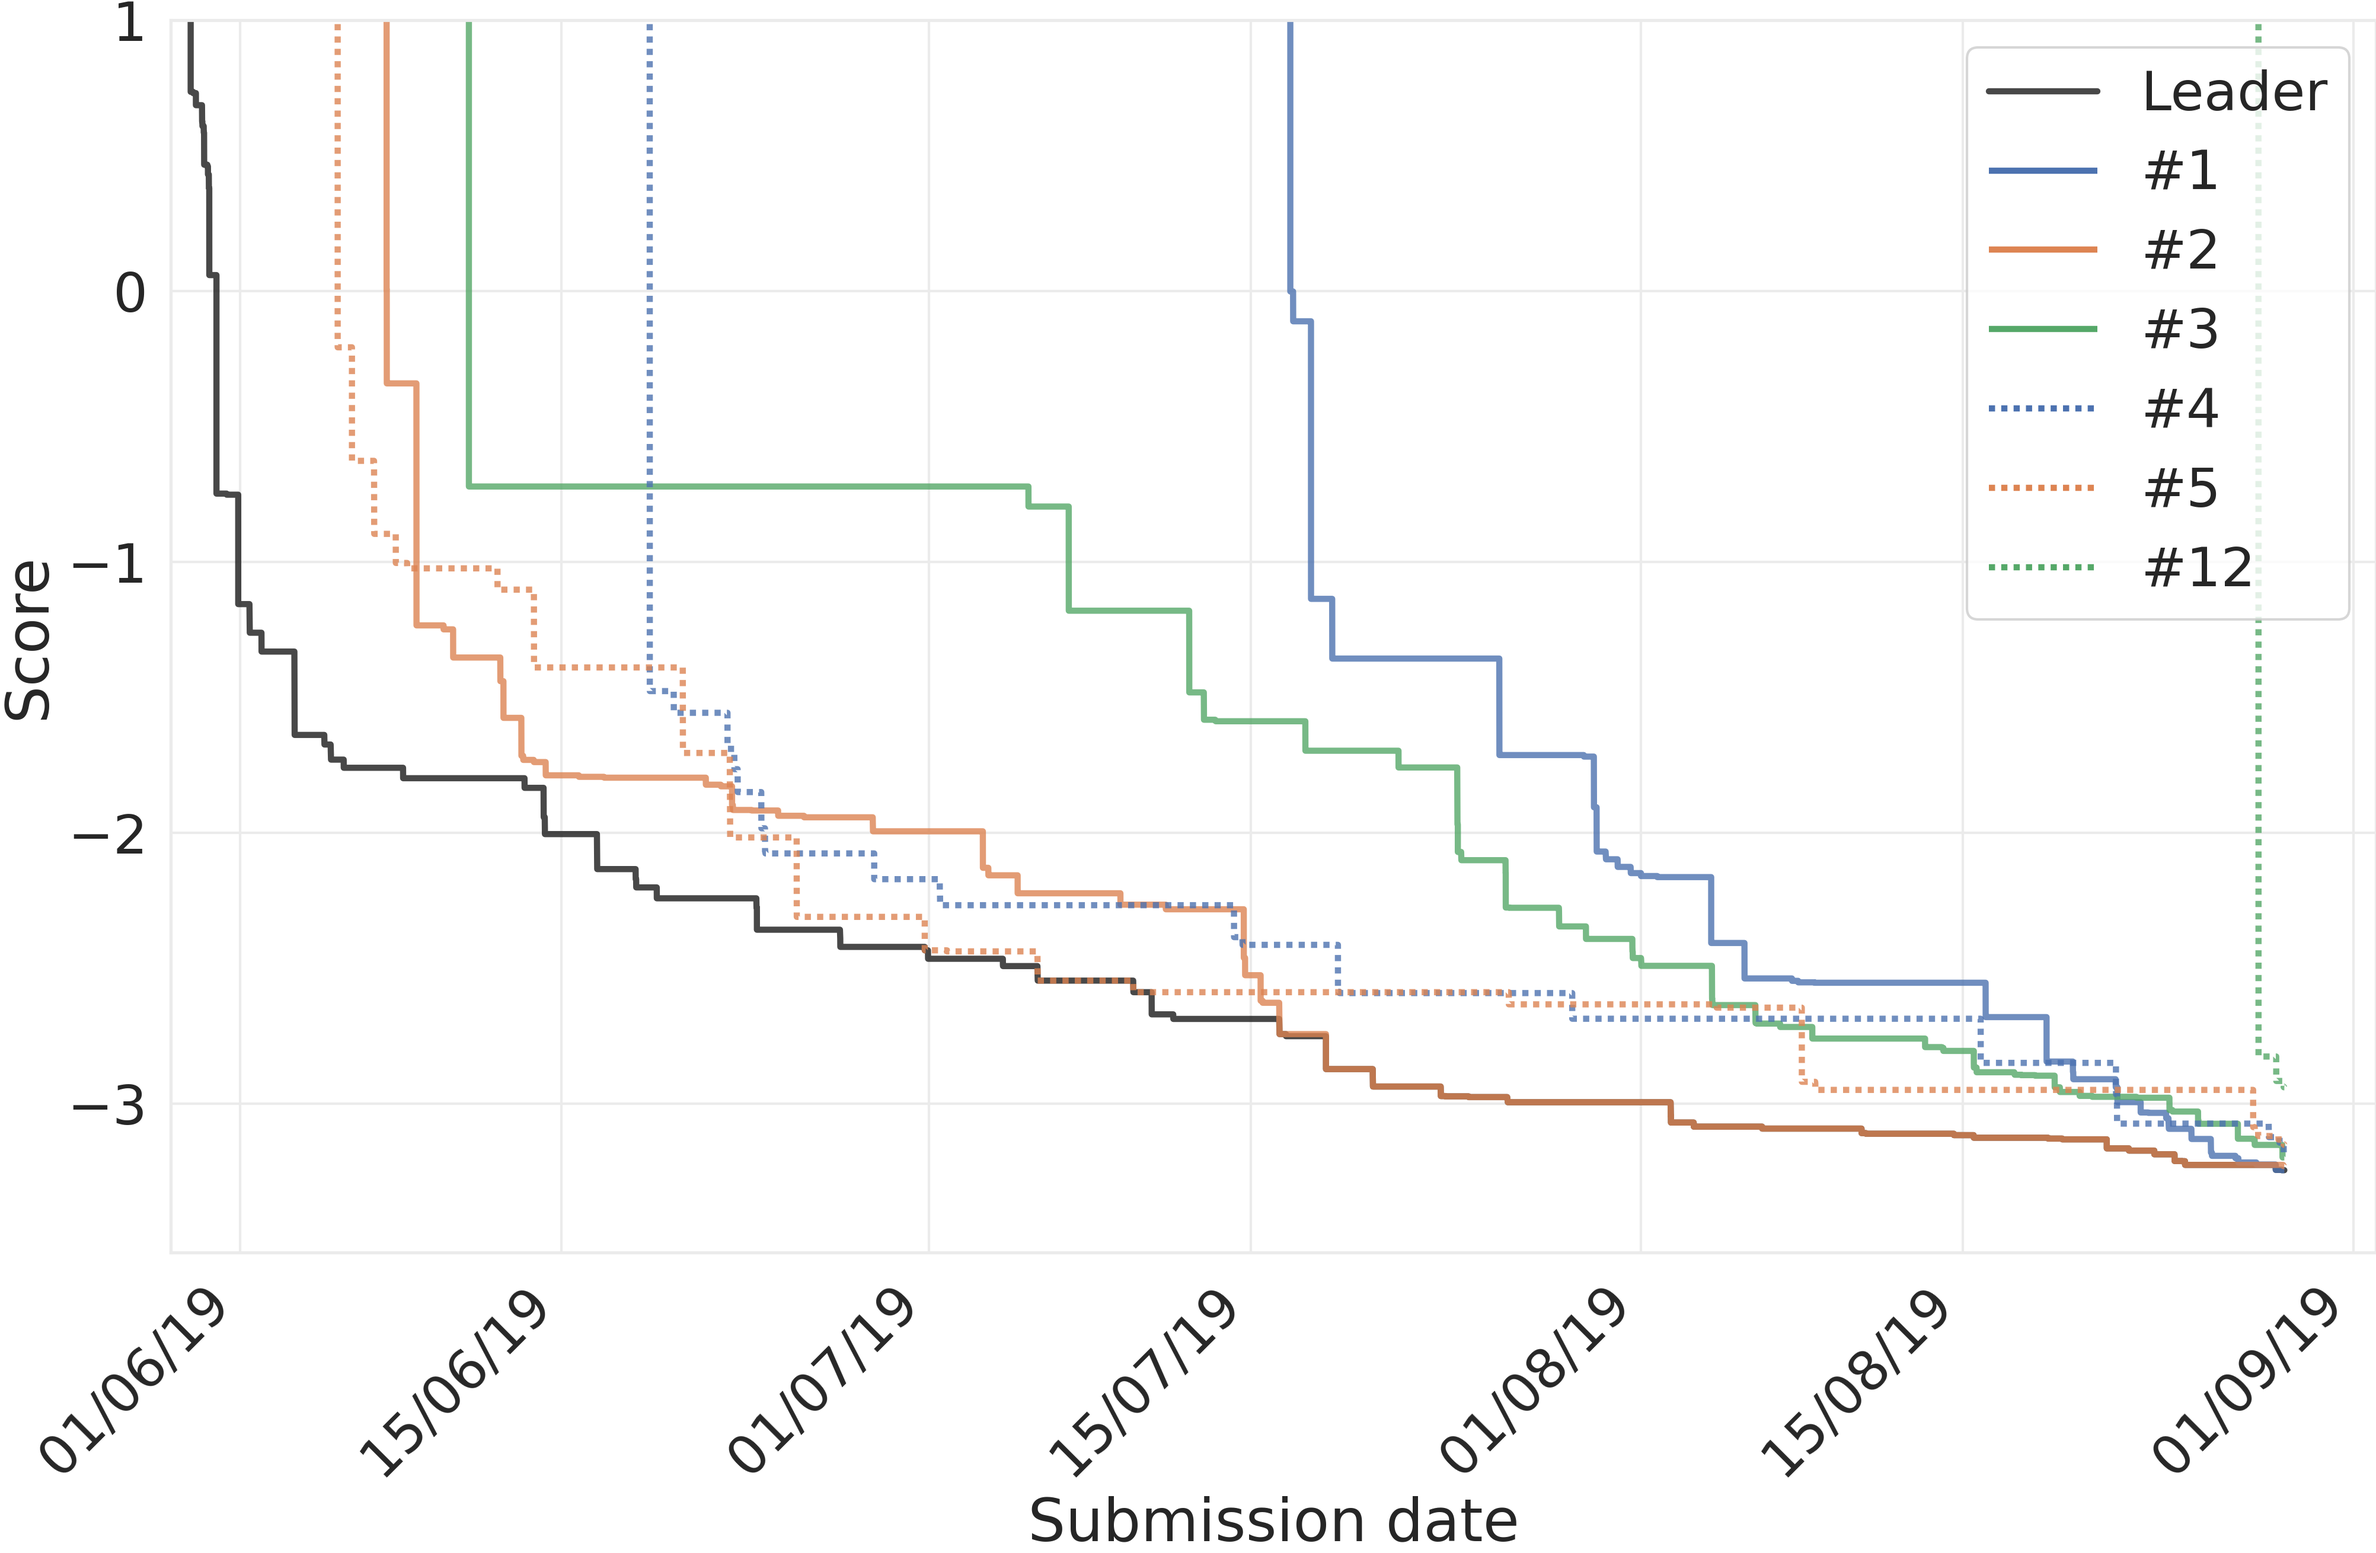
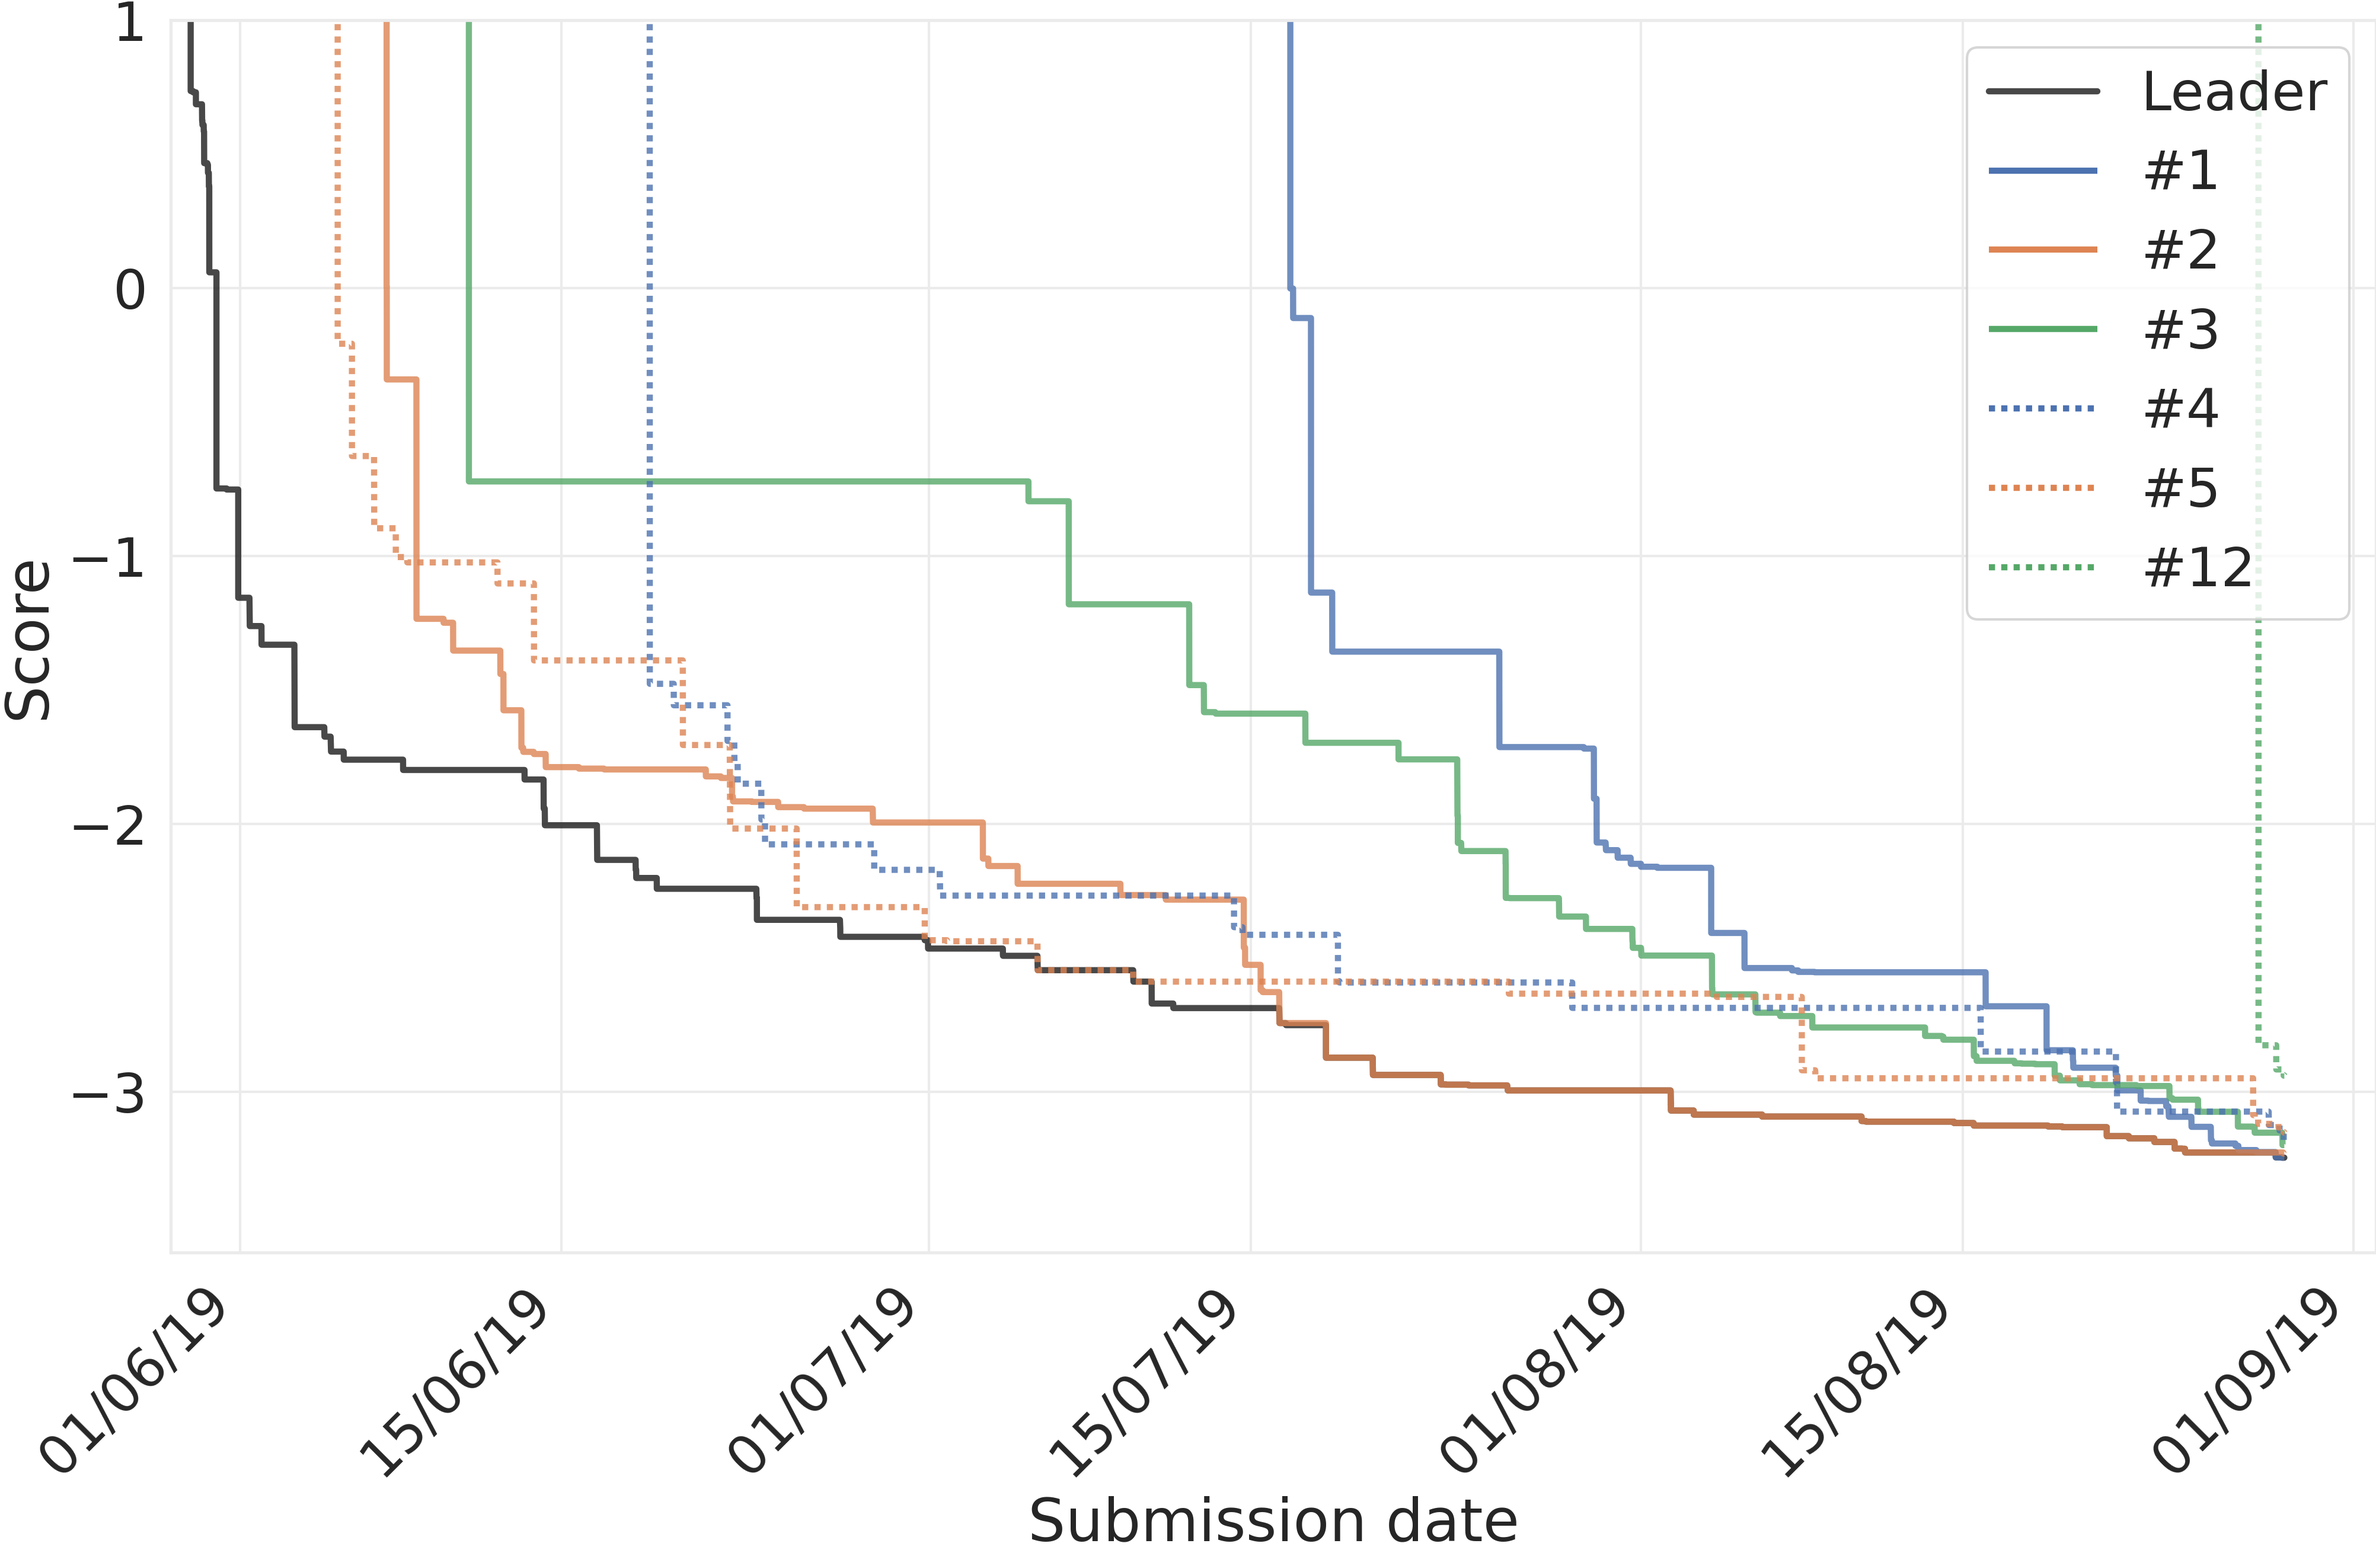
Updated plot due to slightly alternate way required for the exponential fit to get decent estimates of the error

diff --git a/analysis/make_auxiliary_plots.py b/analysis/make_auxiliary_plots.py
@@ -88,7 +88,7 @@ def plot_progress_select_teams(df, filename):
 
     format_and_save(ax, filename)
 
-def format_and_save(ax, filename, clear=True, ylabel="Score", ylim=(-3.55,1)):
+def format_and_save(ax, filename, clear=True, ylabel="Score", ylim=(-3.6,1)):
     ax.set(xlabel='Submission date', ylabel=ylabel, ylim=ylim,
             xlim=(datetime.date(2019,5,29),datetime.date(2019,9,2)))
     ax.xaxis.set_major_formatter(DateFormatter("%d/%m/%y"))
@@ -155,12 +155,14 @@ def plot_exponential_fits(df, filename):
     def opt(params, t, y_true, fun):
         y = fun(params, t)
         return 1/y.size * sum((y-y_true)**2)
+
     def single(params, t):
         """
         Single exponential
         """
         A, a, C = params
         return A*np.exp(-a*t) + C
+
     def double(params, t):
         """
         Double exponential
@@ -168,21 +170,34 @@ def plot_exponential_fits(df, filename):
         A, a, C, B, b = params
         return A*np.exp(-a*t) + B*np.exp(-b*t) + C
 
+    def convert_df(df):
+        """
+        Converts the dates and values of the dataframe
+        to something more easily plotted
+        """
+        dates = df.axes[0]
+        x = (dates - datetime.datetime.utcfromtimestamp(0)).total_seconds().values
+        x -= x.min()
+        x /= (3600*24)
+        y = df.values
+        return x, y, dates
+
+
     best = df.min(1)
-    dates = best.axes[0]
-    x = (dates - datetime.datetime.utcfromtimestamp(0)).total_seconds().values
-    x -= x.min()
-    x /= (3600*24)
-    y = best.values
+    # Only keep changes in leaderboard
+    best_unique = best.drop_duplicates(keep="first")
+
+    x, y, dates = convert_df(best)
+    x_unique, y_unique, dates_unique = convert_df(best_unique)
 
     params0 = [3, 1, -3.5, 2, 0.02]
     bounds = [(0,None), (0,None), (None,None), (0,None), (0,None)]
-    params = scipy.optimize.minimize(opt, params0, args=(x, y, double),
+    params = scipy.optimize.minimize(opt, params0, args=(x_unique, y_unique, double),
             options={"maxiter":10000}, bounds=bounds, tol=1e-6, method='slsqp')
     assert params.success, params
     print("Fitted parameters", params.x)
     # Estimated from fit_leastsq of https://stackoverflow.com/a/21844726/2653663
-    print("Errors: [7.08584e-03, 3.62457e-03, 3.24547e-03, 2.33528e-03, 8.79903e-05]")
+    print("Errors: [0.17789, 0.10702, 0.28301, 0.21125, 0.00652]")
 
     plt.figure(figsize=(16,9))
     sns.lineplot(x=dates, y=y, color="k", label="Leader")
